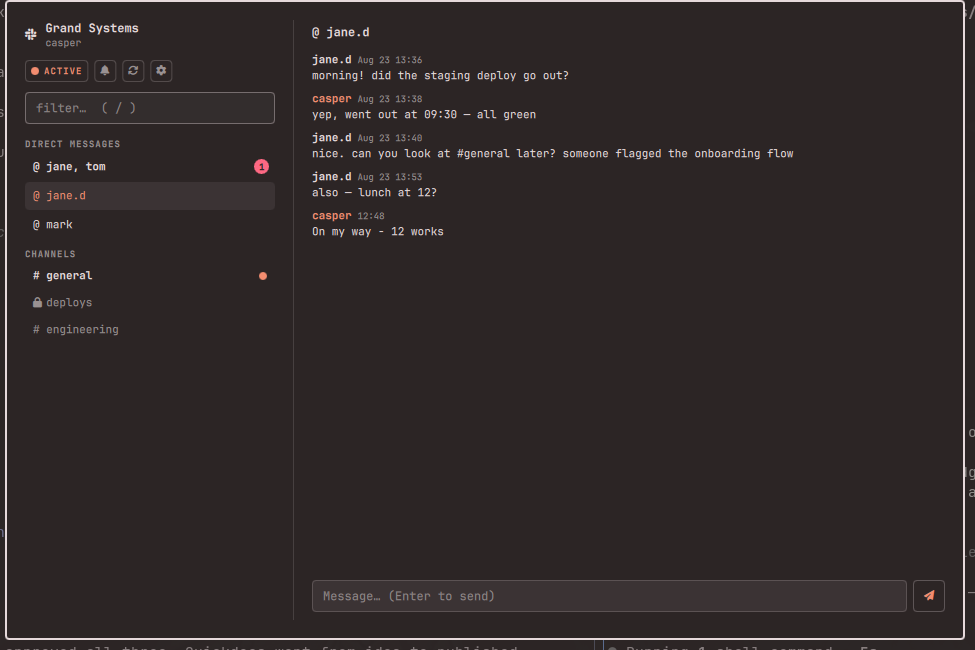
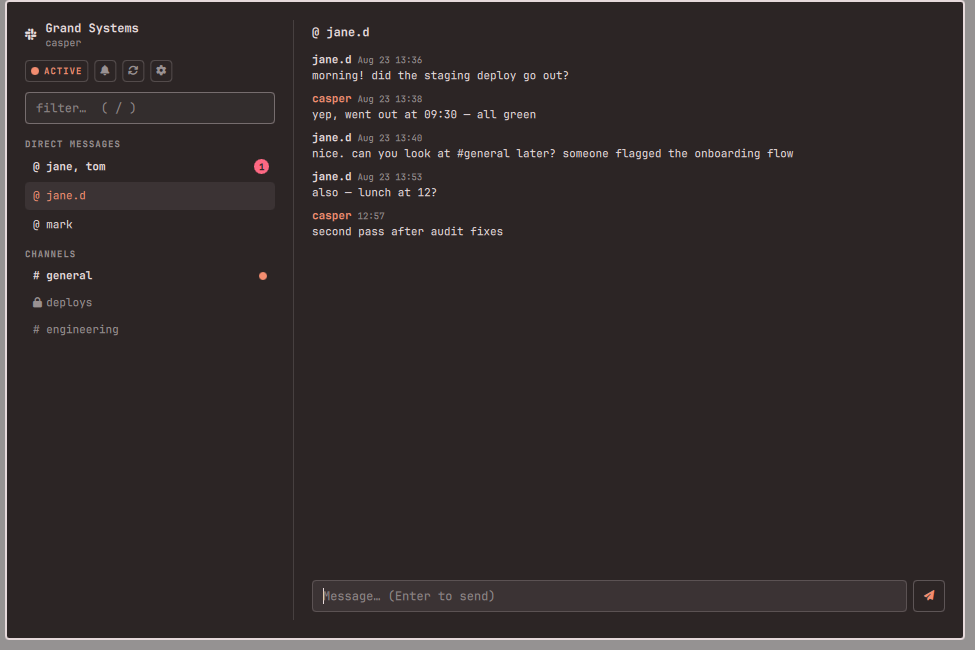
Security audit fixes: private caches, listener DoS, cross-convo attribution
- 0700/0600 on everything under ~/.cache/omarchy-slack (was world-readable,
  including in-flight OAuth codes and cached DMs); umask 077 script-wide,
  repair chmod for existing installs, mktemp for atomic writes
- OAuth listener: per-connection socket timeout + ThreadingHTTPServer +
  hard signal.alarm — a held-open idle socket can no longer block the
  callback or leak the port (regression-tested)
- History payloads name their channel; the app drops late payloads after a
  conversation switch, and history/send argv are snapshotted at call time
- Token entry field masks input and clears on failure too
- Bounce page: no-referrer + history.replaceState scrub of the auth code
- users.json bounded (80-char names, 400 entries); conversations.mark body
  moved off argv to stdin; PlainText enforced on every Text block
- Tests: 52 checks incl. cache-permission assertions and history channel tag

Claude-Session: https://claude.ai/code/session_01PfNEP5va4pxuhP3ZwdaYpz

Changed region(s): [[0.0, 0.0, 1.0, 1.0], [0.3077, 0.3385, 0.5231, 0.3692]]

diff --git a/Overlay.qml b/Overlay.qml
@@ -138,6 +138,9 @@ Item {
   function applyHistory(raw) {
     historyLoading = false
     var data = Model.parseJson(raw)
+    // A fetch started for one conversation may land after the user switched
+    // to another — drop it instead of rendering (and marking read) wrongly.
+    if (!convo || (data.channel && data.channel !== convo.id)) return
     if (!data.ok) {
       historyError = Model.friendlyError(data.error)
       return
@@ -179,6 +182,7 @@ Item {
     historyLoading = true
     composeField.text = ""
     if (historyProc.running) historyProc.running = false
+    historyProc.cmd = Model.historyCommand(scriptDir, convo.id)
     historyProc.running = true
     Qt.callLater(function() { composeField.forceActiveFocus() })
   }
@@ -186,6 +190,7 @@ Item {
   function refreshHistory() {
     if (!convo || historyProc.running) return
     historyLoading = true
+    historyProc.cmd = Model.historyCommand(scriptDir, convo.id)
     historyProc.running = true
   }
 
@@ -194,6 +199,9 @@ Item {
     if (!convo || sending || String(text).replace(/\s+/g, "") === "") return
     sending = true
     sendError = ""
+    // Snapshot the destination now — a live binding could re-resolve to a
+    // different conversation between here and process start.
+    sendProc.cmd = Model.sendCommand(scriptDir, convo.id)
     sendProc.pendingText = String(text)
     sendProc.stdinEnabled = true
     sendProc.running = true
@@ -267,11 +275,11 @@ Item {
   function tokenFinished(raw) {
     tokenBusy = false
     var data = Model.parseJson(raw)
+    tokenField.text = ""
     if (!data.ok) {
       tokenFeedback = Model.friendlyError(data.error)
       return
     }
-    tokenField.text = ""
     tokenFeedback = ""
     tokenState = "valid"
     teamName = String(data.team || "")
@@ -350,7 +358,8 @@ Item {
 
   Process {
     id: historyProc
-    command: root.convo ? Model.historyCommand(root.scriptDir, root.convo.id) : ["true"]
+    property var cmd: ["true"]
+    command: cmd
     stdout: StdioCollector {
       waitForEnd: true
       onStreamFinished: root.applyHistory(text)
@@ -362,7 +371,8 @@ Item {
   Process {
     id: sendProc
     property string pendingText: ""
-    command: root.convo ? Model.sendCommand(root.scriptDir, root.convo.id) : ["true"]
+    property var cmd: ["true"]
+    command: cmd
     stdinEnabled: true
     onStarted: {
       write(pendingText)
@@ -498,6 +508,7 @@ Item {
           spacing: Style.space(14)
 
           Text {
+            textFormat: Text.PlainText
             anchors.horizontalCenter: parent.horizontalCenter
             text: ""
             color: root.foreground
@@ -506,6 +517,7 @@ Item {
           }
 
           Text {
+            textFormat: Text.PlainText
             anchors.horizontalCenter: parent.horizontalCenter
             text: "Omarchy Slack"
             color: root.foreground
@@ -515,6 +527,7 @@ Item {
           }
 
           Text {
+            textFormat: Text.PlainText
             width: parent.width
             text: root.tokenState === "invalid"
               ? "Slack rejected the saved sign-in. Sign in again to continue."
@@ -540,6 +553,7 @@ Item {
               spacing: Style.space(8)
 
               Text {
+                textFormat: Text.PlainText
                 text: ""
                 color: Color.background
                 font.family: root.fontFamily
@@ -547,6 +561,7 @@ Item {
                 anchors.verticalCenter: parent.verticalCenter
               }
               Text {
+                textFormat: Text.PlainText
                 text: "Sign in with Slack"
                 color: Color.background
                 font.family: root.fontFamily
@@ -571,6 +586,7 @@ Item {
             spacing: Style.space(8)
 
             Text {
+              textFormat: Text.PlainText
               width: parent.width
               text: "Finishing sign-in in your browser…"
               color: root.foreground
@@ -589,6 +605,7 @@ Item {
               border.color: Qt.rgba(root.dim.r, root.dim.g, root.dim.b, 0.45)
 
               Text {
+                textFormat: Text.PlainText
                 id: cancelText
                 anchors.centerIn: parent
                 text: "Cancel"
@@ -621,6 +638,7 @@ Item {
 
           // Advanced: paste a token instead of the browser flow.
           Text {
+            textFormat: Text.PlainText
             visible: !root.showTokenEntry && !root.loginBusy
             anchors.horizontalCenter: parent.horizontalCenter
             text: root.loginAvailable ? "advanced: paste a token instead" : "paste a token to sign in"
@@ -649,6 +667,7 @@ Item {
             TextField {
               id: tokenField
               width: parent.width
+              password: true
               placeholderText: "xoxp-… (User OAuth Token — see README)"
               foreground: root.foreground
               font.family: root.fontFamily
@@ -698,6 +717,7 @@ Item {
               spacing: Style.space(8)
 
               Text {
+                textFormat: Text.PlainText
                 text: ""
                 color: root.foreground
                 font.family: root.fontFamily
@@ -757,6 +777,7 @@ Item {
                     anchors.verticalCenter: parent.verticalCenter
                   }
                   Text {
+                    textFormat: Text.PlainText
                     text: root.presence === "away" ? "AWAY" : "ACTIVE"
                     color: root.presence === "away" ? root.dim : Color.accent
                     font.family: root.fontFamily
@@ -785,6 +806,7 @@ Item {
                 border.color: Qt.rgba(root.dim.r, root.dim.g, root.dim.b, 0.35)
 
                 Text {
+                  textFormat: Text.PlainText
                   anchors.centerIn: parent
                   text: root.snoozing ? "" : ""
                   color: root.snoozing ? Color.urgent : root.dim
@@ -810,6 +832,7 @@ Item {
                 border.color: Qt.rgba(root.dim.r, root.dim.g, root.dim.b, 0.35)
 
                 Text {
+                  textFormat: Text.PlainText
                   anchors.centerIn: parent
                   text: ""
                   color: root.dim
@@ -838,6 +861,7 @@ Item {
                 border.color: Qt.rgba(root.dim.r, root.dim.g, root.dim.b, 0.35)
 
                 Text {
+                  textFormat: Text.PlainText
                   anchors.centerIn: parent
                   text: ""
                   color: root.settingsMode ? Color.accent : root.dim
@@ -911,6 +935,7 @@ Item {
                 spacing: Style.space(1)
 
                 Text {
+                  textFormat: Text.PlainText
                   visible: root.dmRows.length > 0
                   text: "DIRECT MESSAGES"
                   color: root.dim
@@ -984,6 +1009,7 @@ Item {
                 }
 
                 Text {
+                  textFormat: Text.PlainText
                   visible: root.channelRows.length > 0
                   text: "CHANNELS"
                   color: root.dim
@@ -1093,6 +1119,7 @@ Item {
               spacing: Style.space(10)
 
               Text {
+                textFormat: Text.PlainText
                 text: "SETTINGS"
                 color: root.dim
                 font.family: root.fontFamily
@@ -1111,6 +1138,7 @@ Item {
               }
 
               Text {
+                textFormat: Text.PlainText
                 width: parent.width
                 text: "Reading here always clears the badge locally. To also mark conversations read on your phone and other Slack clients, the Slack app needs the optional write scopes (see README) — without them Slack silently keeps its own read state."
                 color: root.dim
@@ -1120,6 +1148,7 @@ Item {
               }
 
               Text {
+                textFormat: Text.PlainText
                 width: parent.width
                 text: "The bar badge counts unread DMs and group DMs; channels light the icon. Unread counts poll every few minutes (omarchy bar set bottelet.slack refreshMinutes N)."
                 color: root.dim
@@ -1137,6 +1166,7 @@ Item {
                 border.color: Qt.rgba(root.dim.r, root.dim.g, root.dim.b, 0.45)
 
                 Text {
+                  textFormat: Text.PlainText
                   id: signOutText
                   anchors.centerIn: parent
                   text: "  Sign out & forget token"
@@ -1166,6 +1196,7 @@ Item {
               spacing: Style.space(8)
 
               Text {
+                textFormat: Text.PlainText
                 anchors.horizontalCenter: parent.horizontalCenter
                 text: ""
                 color: Qt.rgba(root.dim.r, root.dim.g, root.dim.b, 0.5)
@@ -1173,6 +1204,7 @@ Item {
                 font.pixelSize: Style.font.title * 2
               }
               Text {
+                textFormat: Text.PlainText
                 anchors.horizontalCenter: parent.horizontalCenter
                 text: "Pick a conversation — ↑/↓ and Enter work too"
                 color: root.dim
@@ -1340,6 +1372,7 @@ Item {
                 border.color: Qt.rgba(root.dim.r, root.dim.g, root.dim.b, 0.45)
 
                 Text {
+                  textFormat: Text.PlainText
                   anchors.centerIn: parent
                   text: ""
                   color: root.sending ? root.dim : Color.accent

diff --git a/docs/oauth.html b/docs/oauth.html
@@ -1,5 +1,6 @@
 <!doctype html>
 <meta charset="utf-8">
+<meta name="referrer" content="no-referrer">
 <title>Omarchy Slack sign-in</title>
 <style>
   :root { color-scheme: light dark }
@@ -23,6 +24,8 @@
   (function () {
     var q = window.location.search;
     if (/^\?(?=.*code=)(?=.*state=)[\x20-\x7e]*$/.test(q)) {
+      // Scrub the short-lived code from browser history before forwarding.
+      try { history.replaceState({}, "", location.pathname); } catch (e) {}
       window.location.replace("http://127.0.0.1:41879/callback" + q);
       setTimeout(function () {
         document.getElementById("fallback").hidden = false;

diff --git a/scripts/oauth-callback.py b/scripts/oauth-callback.py
@@ -12,11 +12,12 @@ polite error page and the wait continues. Exit codes: 1 timeout/usage,
 stdlib only — no third-party imports, binds loopback only, serves no files.
 """
 import re
+import signal
 import subprocess
 import sys
 import time
 import urllib.parse
-from http.server import BaseHTTPRequestHandler, HTTPServer
+from http.server import BaseHTTPRequestHandler, ThreadingHTTPServer
 
 TIMEOUT_SECS = 240
 
@@ -43,9 +44,16 @@ def main() -> int:
     if not auth_url.startswith("https://slack.com/oauth/"):
         return 1
 
+    # Hard ceiling: no path (idle sockets included) may outlive the deadline.
+    signal.alarm(TIMEOUT_SECS + 10)
+
     result = {}
 
     class Handler(BaseHTTPRequestHandler):
+        # Per-connection socket timeout: a client that connects and never
+        # sends a request cannot pin the server (single idle TCP connection
+        # would otherwise block handle_one_request forever).
+        timeout = 10
         def do_GET(self):  # noqa: N802 (http.server API)
             parsed = urllib.parse.urlparse(self.path)
             if parsed.path != "/callback":
@@ -81,7 +89,8 @@ def main() -> int:
             pass
 
     try:
-        server = HTTPServer(("127.0.0.1", port), Handler)
+        server = ThreadingHTTPServer(("127.0.0.1", port), Handler)
+        server.daemon_threads = True
     except OSError:
         return 2
 

diff --git a/README.md b/README.md
@@ -95,7 +95,13 @@ use different (roomier) API methods and poll every 3 minutes by default
   responses are size-capped, every channel id is regex-validated before use,
   and everything Slack returns renders as plain text — no HTML sinks.
 - The OAuth listener binds `127.0.0.1` only, accepts a single
-  state-validated callback, and dies after four minutes.
+  state-validated callback, and dies after four minutes. During sign-in the
+  short-lived authorization code passes through the GitHub Pages redirect
+  URL (Slack requires HTTPS redirects); the page strips it from browser
+  history, sends no referrer, and the code is useless without completing
+  the exchange within minutes.
+- Message caches and read markers live in `~/.cache/omarchy-slack` with
+  `0700`/`0600` permissions — private to your user, like the token.
 - Like every native app with browser sign-in (GitHub CLI included), the
   shipped OAuth client credentials are public. They can't read anyone's
   Slack: a token is only ever issued to the person who completes the consent

diff --git a/docs/OWN-APP.md b/docs/OWN-APP.md
@@ -52,6 +52,10 @@ If you also want the browser flow against your own app:
 
 The user config takes precedence over the plugin's shipped credentials.
 
+Note: the shipped bounce page forwards to port `41879` specifically. If you
+change `port`, you must host your own copy of `docs/oauth.html` with the
+matching port and point `redirect` at it.
+
 ## Optional read-state sync scopes
 
 Add `channels:write`, `groups:write`, `im:write`, `mpim:write` to the user
